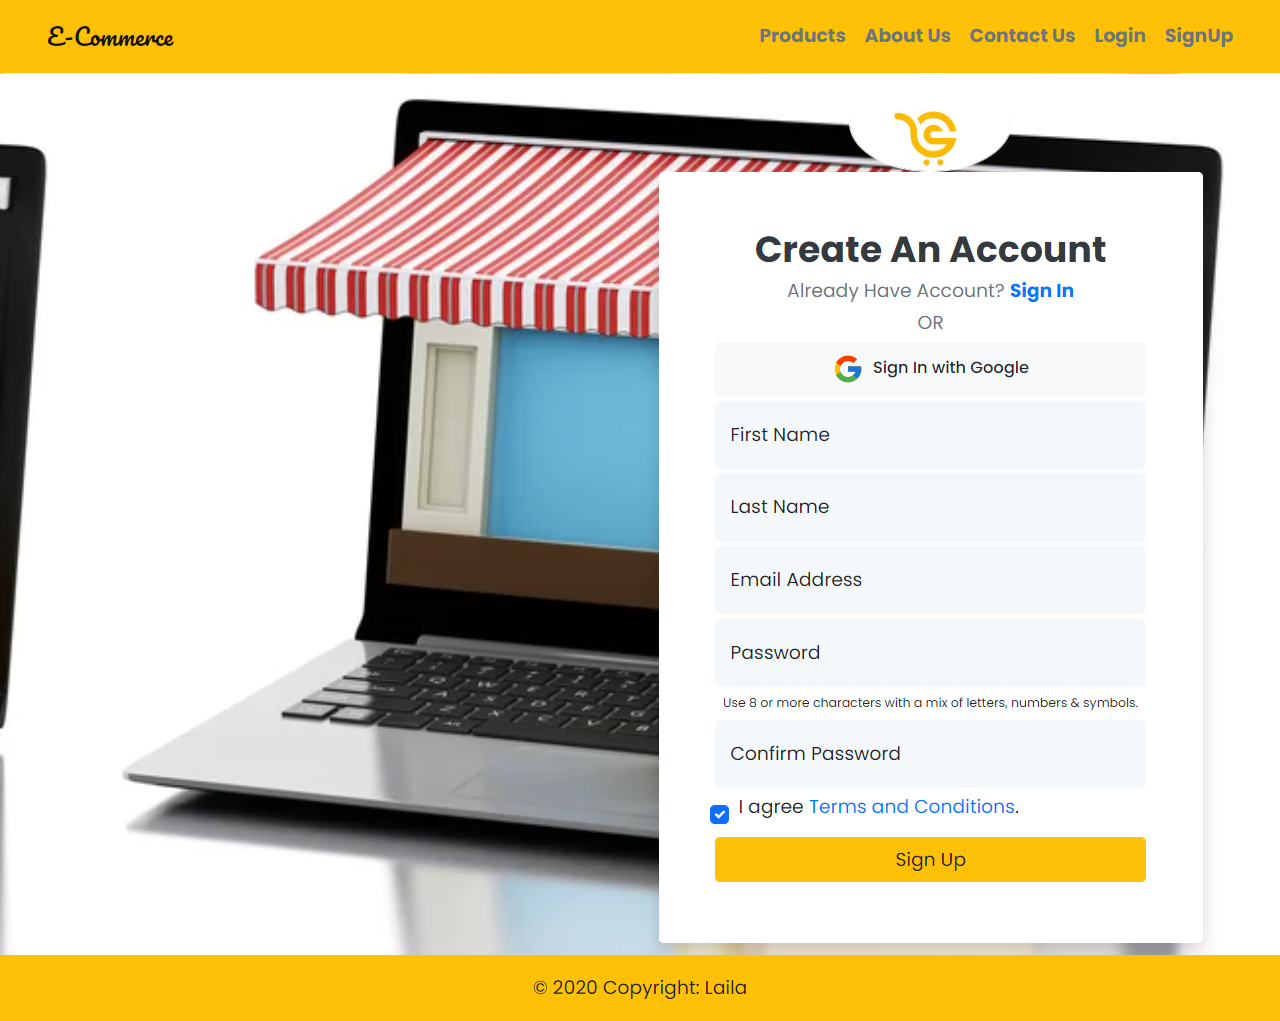
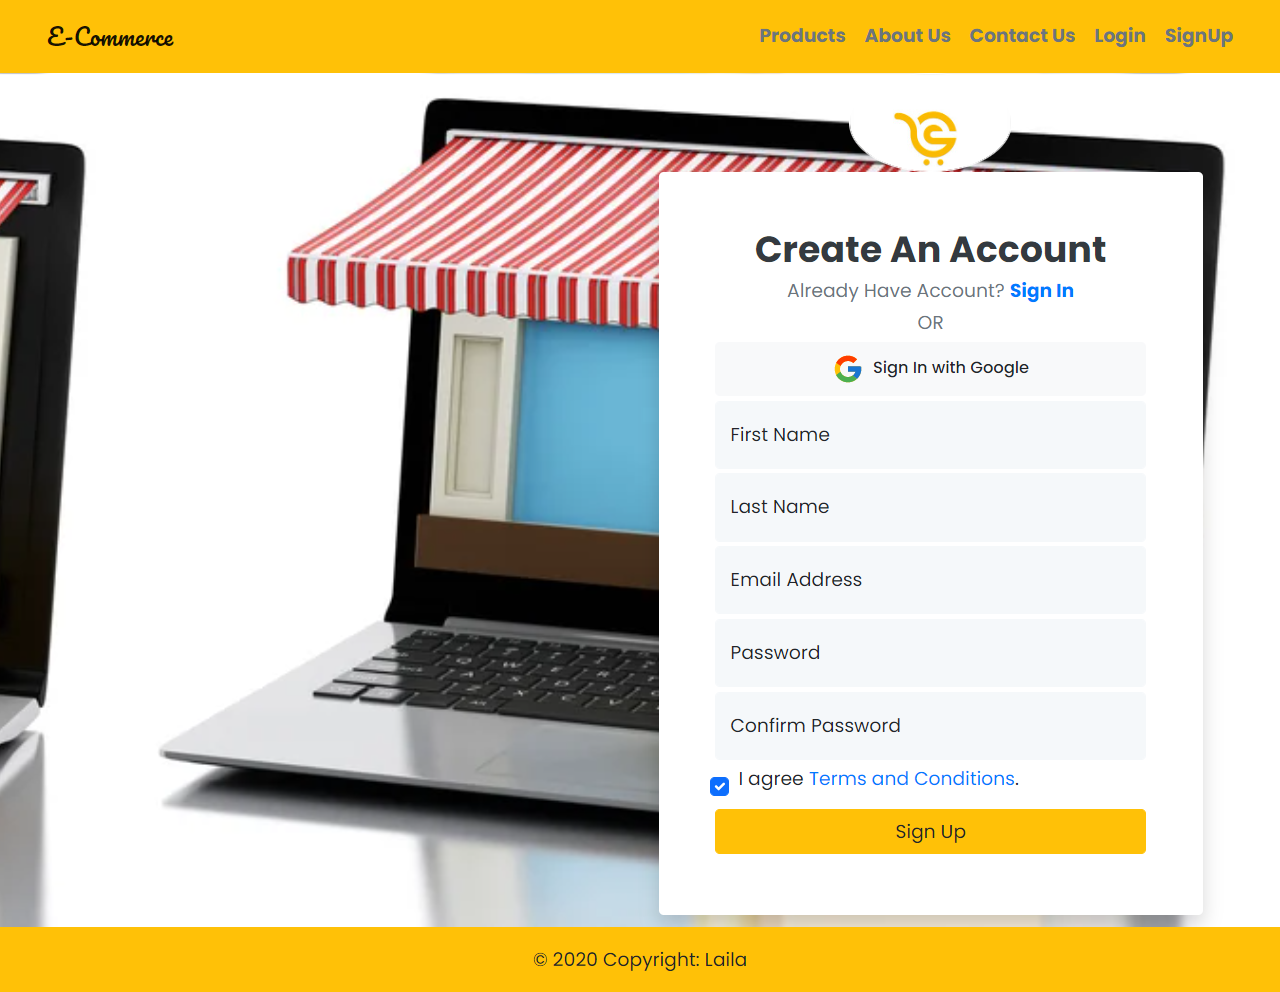
Finish Part Of Second Phase with Validation SignUp Form

diff --git a/validateForms.js b/validateForms.js
@@ -1,8 +1,6 @@
 var attempt = 3; // Variable to count number of attempts.
+var attemptSignUp=3; // Variable to count number of attempts.
 // Below function Executes on click of login button.
-
-
-
 function validateLogin(e){
     e.preventDefault();
     var errors=[];
@@ -77,4 +75,120 @@ if(errors.length > 0){
     } 
     return true;
 } 
+   }
+// ----------------------------------------------------------------------------------------------------------------
+// Below function Executes on click of SignUp button.
+
+  function validateSignUp(e){
+    e.preventDefault();
+    var errorsSignUp=[];
+    // if(document.readyState){
+    //   console.log('hello');
+     
+    myform=document.getElementById('myform');
+    var firstName=document.getElementsByTagName('input')[0];
+    var lastName=document.getElementsByTagName('input')[1];
+    var email=document.getElementsByTagName('input')[2];
+    var password=document.getElementsByTagName('input')[3];
+    var ConfirmPassword=document.getElementsByTagName('input')[4];
+    var check=document.getElementsByTagName('input')[5];
+
+    // console.log(firstName.value,lastName.value,email.value,password.value,ConfirmPassword.value,check.value);
+    // Laila Ibrahim lailaibrahim@gmail.com laila123 laila123 on
+
+    attemptSignUp --;// Decrementing by one.
+    alert("You have left "+ attemptSignUp+" attempt;");
+    // Disabling fields after 3 attempts.
+    if( attemptSignUp == 0){
+     firstName.disabled = true;
+     lastName.disabled=true;
+     email.disabled=true;
+     password.disabled=true;
+     ConfirmPassword.disabled=true;
+     check.disabled=true;
+
+     var attempt_SignUp=document.getElementById('attempt_SignUp');
+     attempt_SignUp.style.display='block';
+    return true;
+    }
+   
+    if((firstName.value.length== 0) && ( lastName.value.length== 0) && (email.value.length==0) && (password.value.length==0) &&(ConfirmPassword.value.length==0)){
+        errorsSignUp.push('Empty Inputs, Enter Your Inputs!');
+    }else{
+       
+        
+        if((email.value.length== 0)){
+            errorsSignUp.push('email is empty');
+        }else if(!(/^\w+([\.-]?\w+)*@\w+([\.-]?\w+)*(\.\w{2,3})+$/.test(email.value))){
+            errorsSignUp.push('Invalid Email');
+        }
+    
+        if(( password.value.length== 0)){
+            errorsSignUp.push('password is empty');
+        }else{
+            ptrn=/^([a-zA-Z0-9]{8,})$/;
+            if(! ( ptrn.test(password.value))  ){
+                errorsSignUp.push('Password must be Minimum 8 characters, at least 1 letter & 1 number');
+        }
+        if((ConfirmPassword.value.length==0)){
+          errorsSignUp.push('ConfirmPassword Field Is Empty');
+        }else{
+            ptrn=/^([a-zA-Z0-9]{8,})$/;
+            if(! (ptrn.test(ConfirmPassword.value))){
+                errorsSignUp.push('Confirm Password Field must be Minimum 8 characters, at least 1 letter & 1 number');
+            }
+        }
+        if(password.value != ConfirmPassword.value){
+           errorsSignUp.push('password and confirm Password Not Equal!!');
+        }
+        if((firstName.value.length==0)){
+           errorsSignUp.push('First Name is empty');
+        }else{
+            ptrn=/^([a-zA-Z]{3,})$/;
+            if(! (ptrn.test(firstName.value))){
+               errorsSignUp.push('First Name must be Minimum 2 characters, at least 3 letters');
+            }
+        }
+        if((lastName.value.length==0)){
+            errorsSignUp.push('Last Name is empty');
+         }else{
+             ptrn=/^([a-zA-Z]{3,})$/;
+             if(! (ptrn.test(lastName.value))){
+                errorsSignUp.push('Last Name must be Minimum 2 characters, at least 3 letters');
+             }
+         }
+         if(check.value != 'on'){
+            errorsSignUp.push('please check btn');
+         }
+    }
+}
+// }
+if(errorsSignUp.length > 0){
+    var ErrorsSignUpSection=document.getElementById('errorsSignUp');
+    ErrorsSignUpSection.innerText=errorsSignUp;
+    var contSignUp =document.getElementById('contSignUp');
+    var warningSignUp=document.getElementById('warningSignUp');
+    warningSignUp.textContent='Warning:';
+    var warningcontSignUp=document.getElementById('warningcontSignUp');
+    document.warningcontSignUp.appendChild(warningSignUp);
+
+    document.contSignUp.appendChild(ErrorsSignUpSection);
+
+
+}else{
+    myform=document.getElementById('myform');
+  
+    console.log('submmited');
+    var successSignUp = document.getElementById("successSignUp");
+    successSignUp.style.display='block';
+    flag=true;
+    if(flag){
+        setInterval(() => {
+            // alert('Form Successfully Submitted');
+        window.location="index.html";// Redirecting to other page
+        }, 2000);
+    } 
+    return true;
+} 
+
    }

diff --git a/signup.html b/signup.html
@@ -61,7 +61,7 @@
             <div class="logo">
                <img src="img/logo.jpg" class="img-fluid" alt="logo">
             </div>
-            <form class="rounded bg-white shadow p-5">
+            <form class="rounded bg-white shadow p-5" id="myform" onsubmit="validateSignUp(event)">
                <h3 class="text-dark fw-bolder fs-2 mb-1">Create An Account</h3>
                <div class="fw-normal text-muted mb-1">
                 Already Have Account? <a href="login.html" class="text-primary fw-bold text-decoration-none">Sign In</a>
@@ -85,9 +85,9 @@
                <div class="form-floating mb-1">
                   <input type="password" class="form-control" id="floatingPassword" placeholder="Password">
                   <label for="floatingPassword">Password</label>
-                  <span class="password-info mt-1">
+                  <!-- <span class="password-info mt-1">
                     Use 8 or more characters with a mix of letters, numbers & symbols.
-                  </span>
+                  </span> -->
                </div>
                <div class="form-floating mb-1">
                 <input type="password" class="form-control" id="floatingConfirmPassword" placeholder="Password">
@@ -101,7 +101,31 @@
 
              </div>
 
-              
+             <div id="contSignUp" class="text-danger font-weight-bold bg-white">
+              <div id="warningcontSignUp" class="d-inline">
+                <span id="warningSignUp"></span>
+              </div>
+              <div id="errorsSignUp" class="d-inline">
+
+              </div>
+             <div id="attempt_SignUp">
+              <div class="alert alert-danger alert-dismissible fade show" id='alertT' role="alert">
+                <strong>You Finished Your Three attempts Now, if you want to retry please refresh the page :)</strong>
+                <button type="button" class="close" data-dismiss="alert" aria-label="Close">
+                  <span aria-hidden="true">&times;</span>
+                </button>
+              </div>
+             </div>
+             <div id="successSignUp">
+              <div class="alert alert-warning alert-dismissible fade show" id='alertA' role="alert">
+                <strong>Form Successfully Submitted</strong>
+                <button type="button" class="close" data-dismiss="alert" aria-label="Close">
+                  <span aria-hidden="true">&times;</span>
+                </button>
+              </div>
+             </div>
+           </div>
+
               <button type="submit" class="btn btn-warning submit_btn w-100 my-1">Sign Up</button>
              
             </form>
@@ -129,6 +153,7 @@
     <!-- JavaScript Bundle with Popper -->
 <script src="https://cdn.jsdelivr.net/npm/bootstrap@5.2.1/dist/js/bootstrap.bundle.min.js" integrity="sha384-u1OknCvxWvY5kfmNBILK2hRnQC3Pr17a+RTT6rIHI7NnikvbZlHgTPOOmMi466C8" crossorigin="anonymous"></script>
 <script src="js/bootstrap.js"></script>
+<script src="validateForms.js"></script>
 
 </body>
 </html>

diff --git a/styles.css b/styles.css
@@ -24,7 +24,13 @@ html,body{
 #success{
     display: none;
 }
+#successSignUp{
+    display: none;
+}
 #attempts{
+    display: none;
+}
+#attempt_SignUp{
     display: none;
 }
 #about-us{
@@ -59,11 +65,15 @@ font-family: 'Pacifico', 'cursive';
     background-position: bottom right;
     background-size: contain;
     background-attachment:local;
-    height: 90vh;
+    /* height: 90vh; */
     min-height: 100%;
 
 }
 .wrapper #errors{  
+    width:100%;
+    min-height: 6vh; 
+}
+.wrapper #errorsSignUp{
     width:100%;
     min-height: 6vh; 
 }
@@ -81,9 +91,9 @@ font-family: 'Pacifico', 'cursive';
 .wrapper input:focus{
     box-shadow: none;
 }
-.wrapper .password-info{
+/* .wrapper .password-info{
 font-size: 10px;
-}
+} */
 .wrapper .submit-btn{
     padding:10px 15px;
     font-weight: 500;

diff --git a/README.md b/README.md
@@ -78,6 +78,8 @@ In general, an e-commerce website allows people to buy and sell physical goods, 
 
 5. and So ON The warning still will be shown Until user Input Valid Email and Valid Password :)
 
+## Validate Login Form With Javascript:
+
 
 
 
